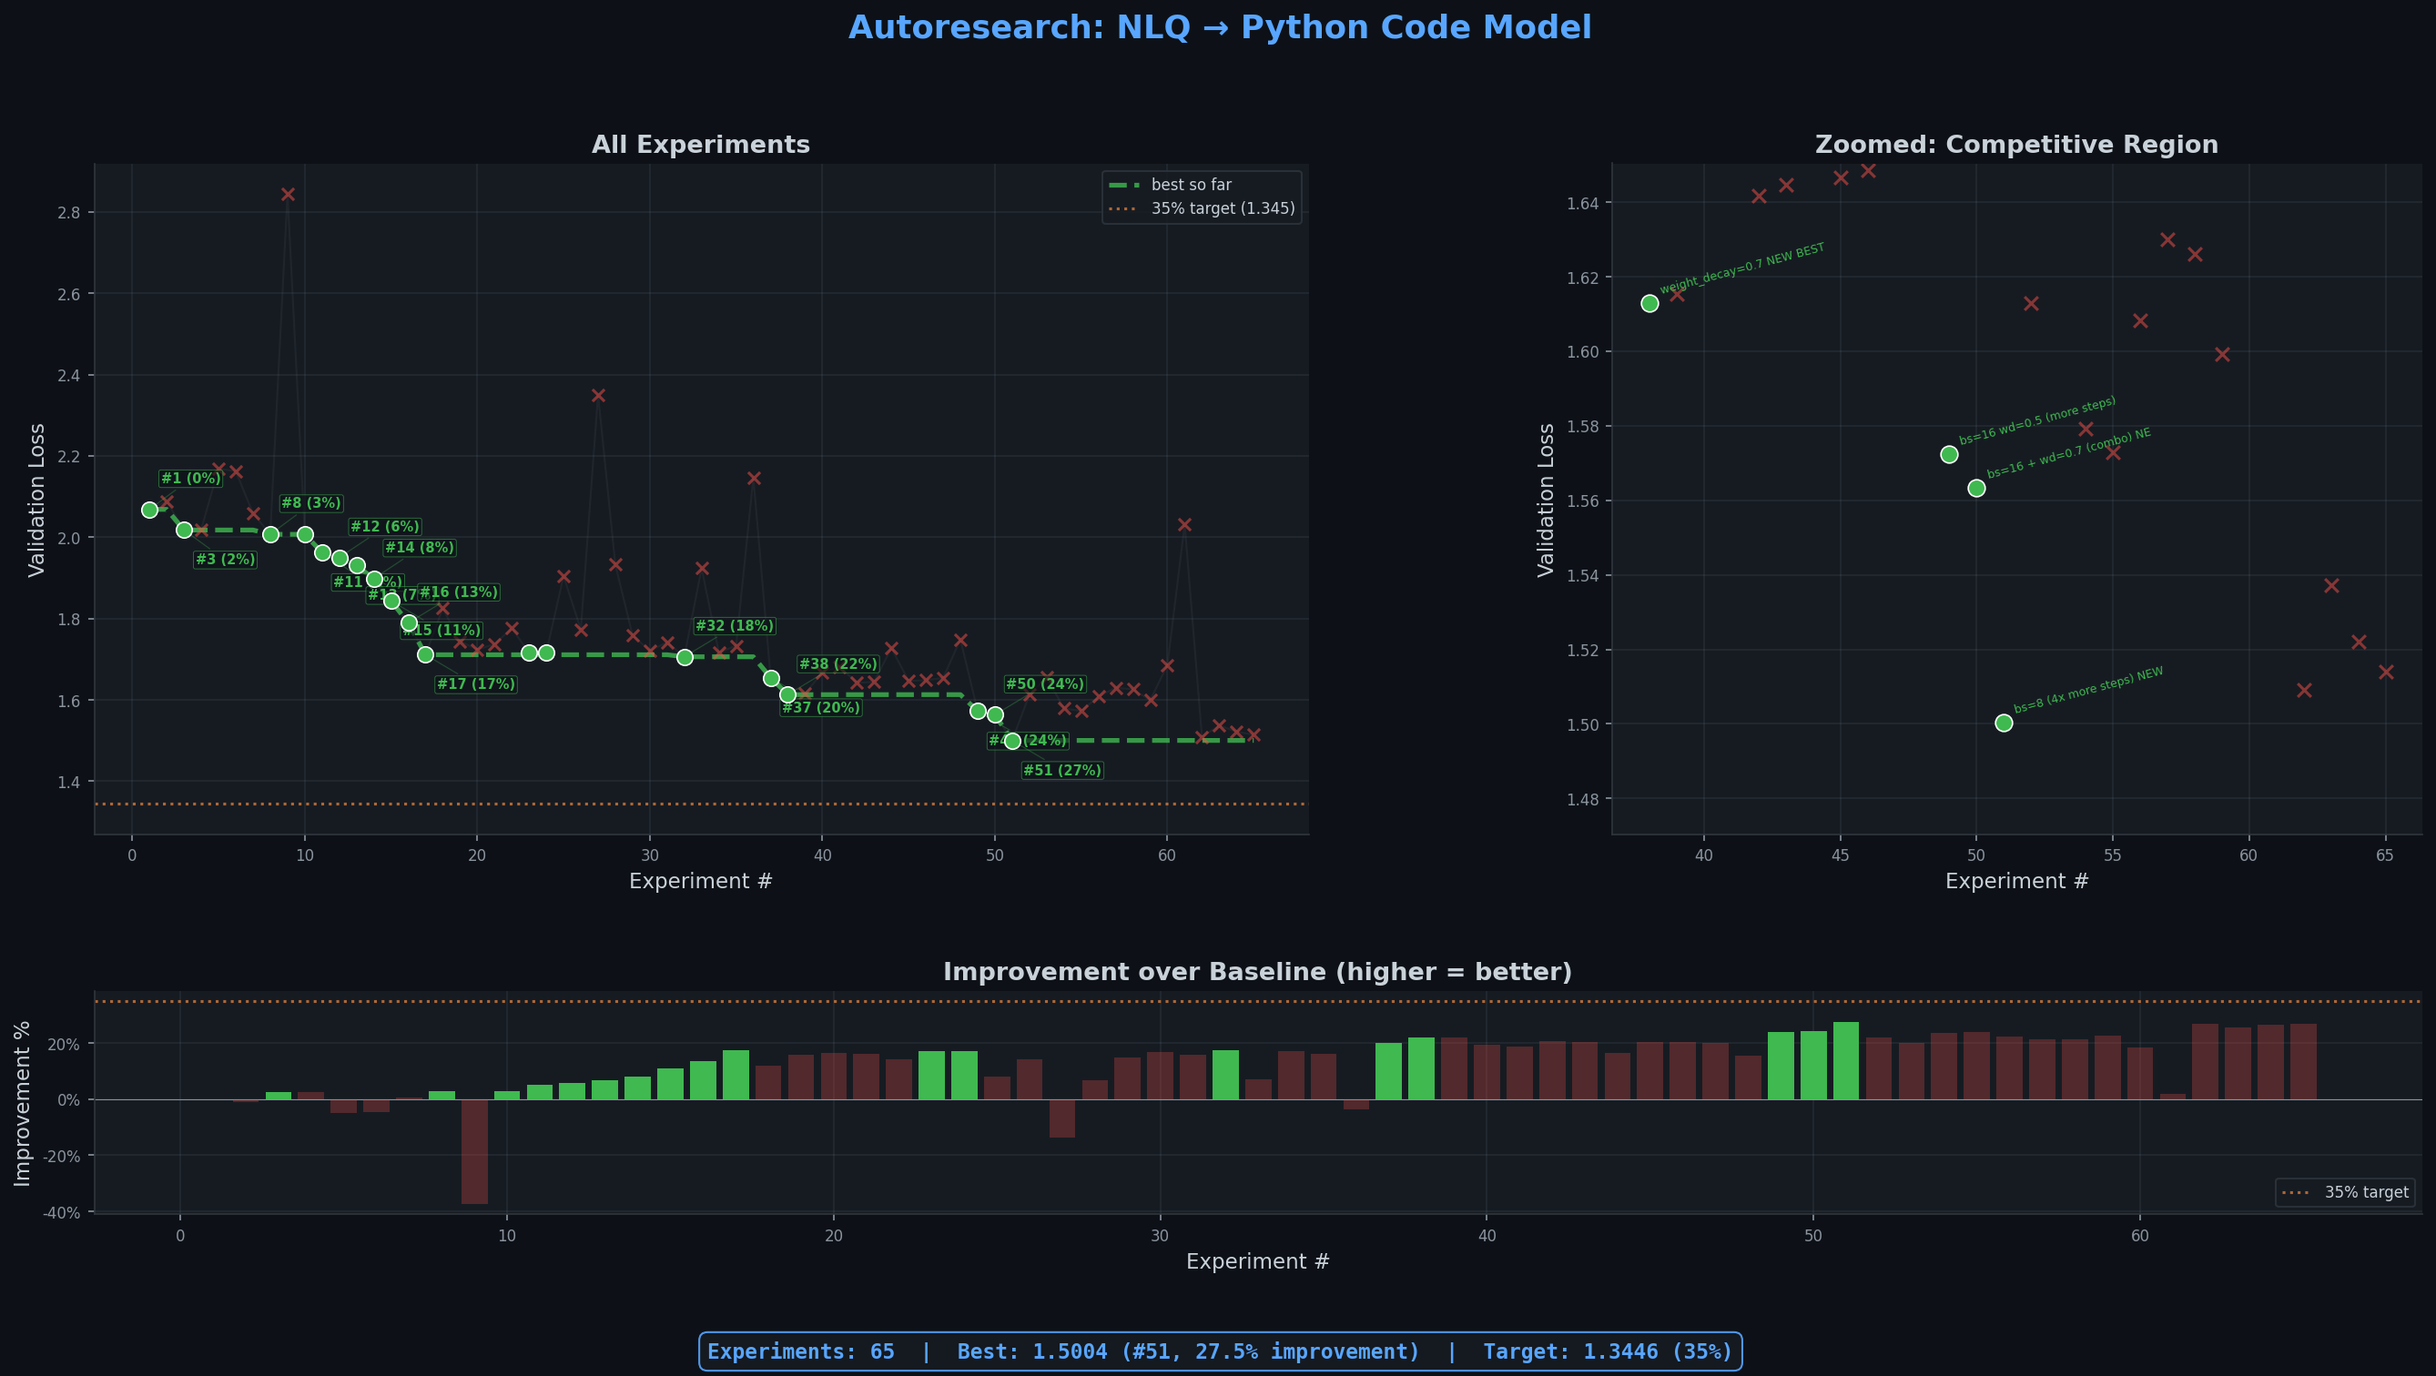
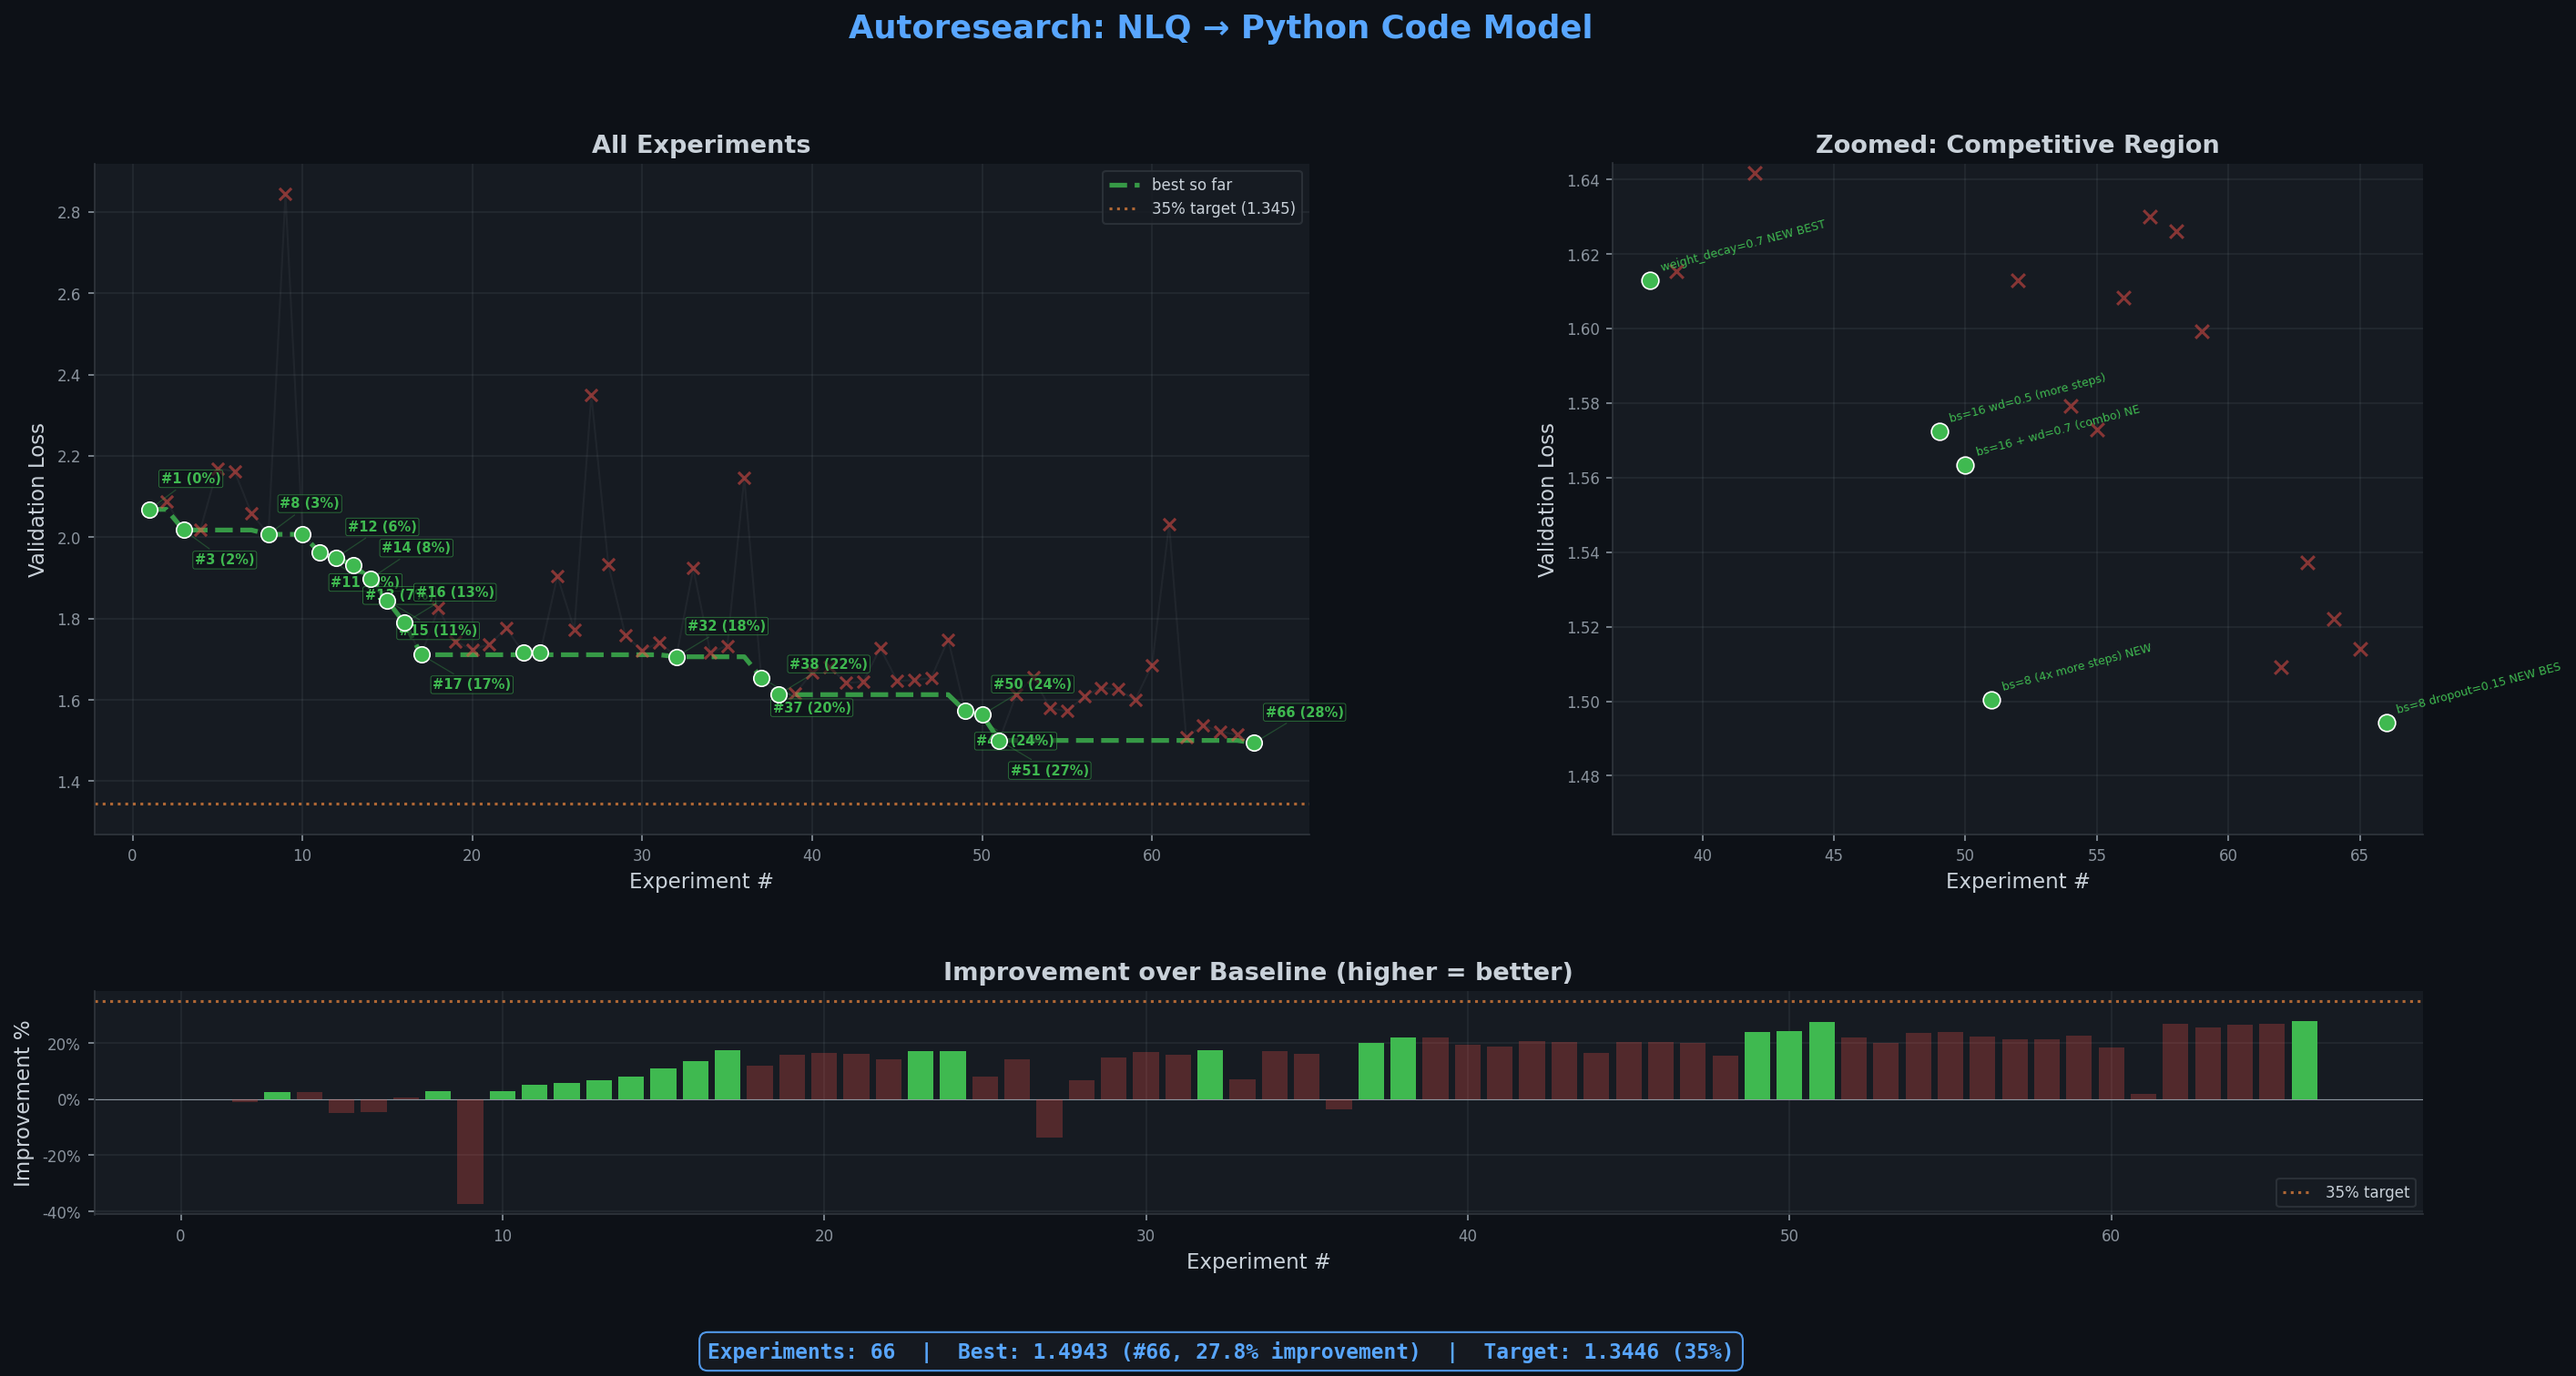
exp 066: bs=8 dropout=0.15 NEW BEST! (val=1.4943, 27.8%)

diff --git a/train_mlx.py b/train_mlx.py
@@ -43,7 +43,7 @@ N_HEAD = N_EMBD // HEAD_DIM  # 5
 N_KV_HEAD = N_HEAD
 MLP_RATIO = 4
 USE_SWIGLU = False
-DROPOUT = 0.1
+DROPOUT = 0.15
 
 # Training
 BATCH_SIZE = 8
